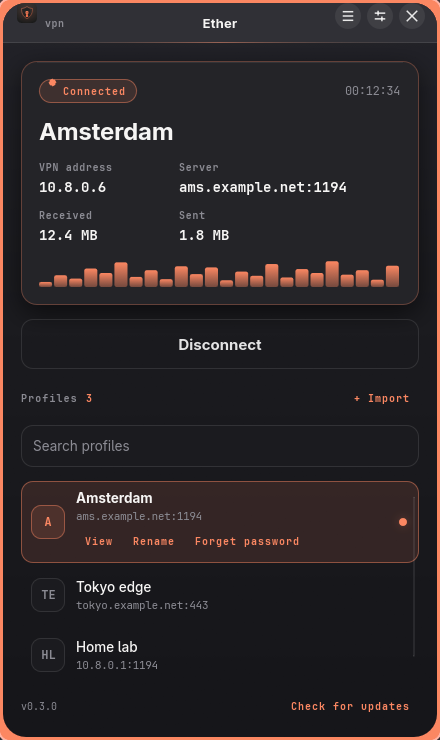
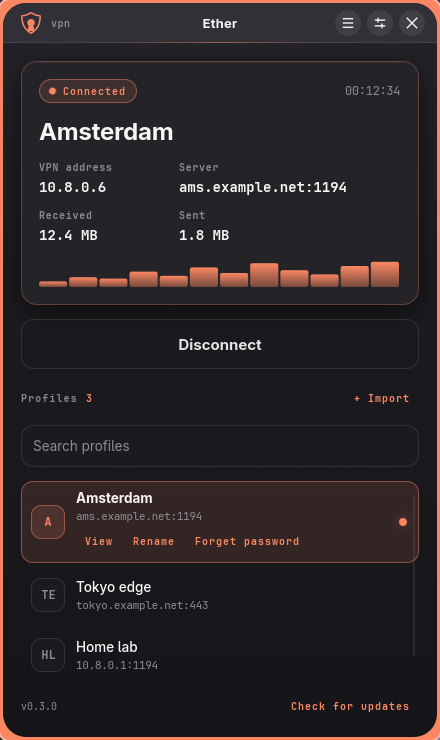
Polish the redesign and make the window frame optional
The title bar now carries the bare shield from the app icon instead of the
tiled logo, which read as a smudge at 24px. Dialogs own the keyboard while
they are open, so Escape closes them and the shortcuts stay out of the way.
The toast is anchored by a layout rather than an explicit y, which kept the
window from shrinking to its content, and the update banner no longer eats
the profile list's space.

Settings gains a Window section with a "Window frame" toggle. Off, the
surface fills the window and the corners are square, for desktops that draw
their own borders. The choice is stored in settings.json and applies to the
log and profile windows too.

The docs screenshots are regenerated from the current build.

Generated by Mistral Vibe.

diff --git a/src/main.rs b/src/main.rs
@@ -197,6 +197,7 @@ fn main() -> Result<(), slint::PlatformError> {
                 let app = app.borrow();
                 apply_theme(&window, app.dark);
                 i18n::apply(&window, app.settings.lang());
+                window.set_frame(app.settings.frame);
             }
             window.set_lines(ModelRc::from(log_model.clone()));
             window.on_copy_all({
@@ -295,6 +296,7 @@ fn main() -> Result<(), slint::PlatformError> {
                 let app = app.borrow();
                 apply_theme(&window, app.dark);
                 i18n::apply(&window, app.settings.lang());
+                window.set_frame(app.settings.frame);
             }
             window.set_lines(ModelRc::from(profile_line_model.clone()));
             window.on_check({
@@ -364,9 +366,6 @@ fn main() -> Result<(), slint::PlatformError> {
         ui.set_selected(0);
     }
     update_card_name(&ui, &app.borrow());
-    if let Some((width, height)) = app.borrow().settings.window_size() {
-        ui.window().set_size(slint::LogicalSize::new(width as f32, height as f32));
-    }
 
     ui.on_show_log({
         let log_window = log_window.clone();
@@ -468,6 +467,26 @@ fn main() -> Result<(), slint::PlatformError> {
         move |on| {
             let mut app = app.borrow_mut();
             app.settings.notifications = on;
+            let _ = app.settings.save();
+        }
+    });
+
+    ui.on_set_frame({
+        let ui_weak = ui.as_weak();
+        let app = app.clone();
+        let log_window = log_window.clone();
+        let profile_window = profile_window.clone();
+        move |on| {
+            let ui = ui_weak.unwrap();
+            let mut app = app.borrow_mut();
+            app.settings.frame = on;
+            ui.set_frame(on);
+            if let Some(window) = log_window.opened() {
+                window.set_frame(on);
+            }
+            if let Some(window) = profile_window.opened() {
+                window.set_frame(on);
+            }
             let _ = app.settings.save();
         }
     });
@@ -1107,6 +1126,11 @@ fn main() -> Result<(), slint::PlatformError> {
     });
 
     ui.show()?;
+    // Restore the saved size only once the window is mapped: a size set before
+    // the window is shown loses to the layout's preferred size.
+    if let Some((width, height)) = app.borrow().settings.window_size() {
+        ui.window().set_size(slint::LogicalSize::new(width as f32, height as f32));
+    }
     check_for_updates(tx.clone(), true);
     // "Connect on launch" waits for the window, so the prompt has somewhere to appear.
     let auto_connect = app.borrow().settings.auto_connect;
@@ -1150,6 +1174,7 @@ fn sync_settings(ui: &AppWindow, app: &App) {
     ui.set_autostart(app.settings.autostart);
     ui.set_auto_connect(app.settings.auto_connect);
     ui.set_notifications(app.settings.notifications);
+    ui.set_frame(app.settings.frame);
 }
 
 /// Hides the window, or quits when there is no tray icon to bring it back.

diff --git a/src/settings.rs b/src/settings.rs
@@ -26,6 +26,10 @@ pub struct Settings {
     /// Show a desktop notification when a connection starts, drops or fails.
     #[serde(default = "default_notifications")]
     pub notifications: bool,
+    /// Draw the coral frame around the window. Off, the window is a plain
+    /// rectangle that sits flush with the desktop's own borders.
+    #[serde(default = "default_frame")]
+    pub frame: bool,
     /// The window size in logical pixels, so it reopens the way it was left.
     #[serde(default)]
     pub window: Option<[u32; 2]>,
@@ -43,6 +47,10 @@ fn default_notifications() -> bool {
     true
 }
 
+fn default_frame() -> bool {
+    true
+}
+
 impl Default for Settings {
     fn default() -> Self {
         Settings {
@@ -51,6 +59,7 @@ impl Default for Settings {
             autostart: false,
             auto_connect: false,
             notifications: default_notifications(),
+            frame: default_frame(),
             window: None,
         }
     }
@@ -140,9 +149,23 @@ mod tests {
         let old: Settings = serde_json::from_str("{}").unwrap();
         assert!(old.dark());
         assert!(old.notifications);
+        assert!(old.frame);
         assert!(!old.autostart);
         assert!(!old.auto_connect);
         assert_eq!(old.window, None);
+    }
+
+    #[test]
+    fn reads_and_writes_the_frame() {
+        let plain: Settings = serde_json::from_str(r#"{"frame":false}"#).unwrap();
+        assert!(!plain.frame);
+
+        let mut settings = Settings::default();
+        assert!(settings.frame);
+        settings.frame = false;
+        let json = serde_json::to_string(&settings).unwrap();
+        let back: Settings = serde_json::from_str(&json).unwrap();
+        assert!(!back.frame);
     }
 
     #[test]

diff --git a/src/i18n.rs b/src/i18n.rs
@@ -182,6 +182,8 @@ labels! {
     auto_connect, set_auto_connect => ("Connect on launch", "Подключаться при запуске"),
     notifications, set_notifications => ("Notifications", "Уведомления"),
     notify_on, set_notify_on => ("Show connection notifications", "Показывать уведомления"),
+    window, set_window => ("Window", "Окно"),
+    frame, set_frame => ("Window frame", "Обрамление окна"),
     close, set_close => ("Close", "Закрыть"),
 
     // Remove confirmation

diff --git a/README.md b/README.md
@@ -30,7 +30,7 @@
 - Two-factor authentication: static challenge, CRV1 and crtext (see below)
 - Reconnects on its own when a working tunnel drops (three attempts, five seconds apart)
 - Desktop notifications when a connection starts, drops or fails
-- English and Russian; dark, light or follow-the-system theme
+- English and Russian; dark, light or follow-the-system theme, and an optional coral window frame
 - Live OpenVPN log with warnings and errors highlighted, a filter box, and a
   "Copy diagnostics" button that puts the version, OS, OpenVPN version and the last 50 lines
   on the clipboard for a support ticket

diff --git a/docs/superpowers/specs/2026-11-11-ether-rebrand-design.md b/docs/superpowers/specs/2026-11-11-ether-rebrand-design.md
@@ -104,6 +104,9 @@ Every window — main, log, profile — is drawn as a niri window:
 - a 1px `line` hairline under the title bar, with an `accent-line` gradient
   running through the middle of it.
 
+The frame is a setting, on by default. Turned off, the surface fills the window
+and the corners are square, for desktops that draw their own borders.
+
 ### Type
 
 `Adwaita Sans` for the interface, `JetBrains Mono` for anything technical: the
